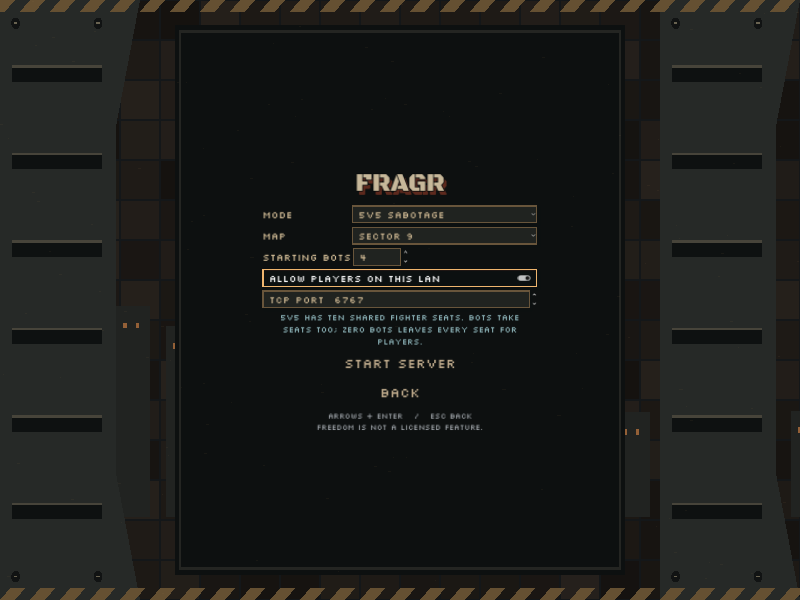
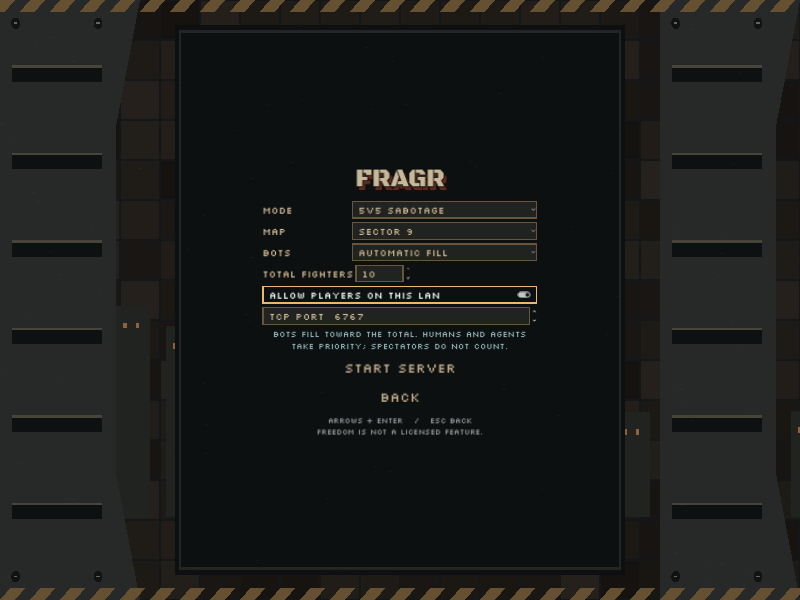
Record inspected bot-choice UI and retained regression evidence

Changed region(s): [[0.3125, 0.27, 0.6875, 0.75]]

diff --git a/docs/evidence/multiplayer-host-20261005.md b/docs/evidence/multiplayer-host-20261005.md
@@ -11,14 +11,15 @@ dedicated hosting remains available. No cloud account or paid runtime is needed.
 
 ## Actual desktop witnesses
 
-All played witnesses used source `dbe28271140caa4be75cd78ba4fe37a31852f9f4`,
+The earlier played witnesses below used source `dbe28271140caa4be75cd78ba4fe37a31852f9f4`,
 native source `ae4ad91870d0f3fb5c60bc4aa11eee2da8c94d62` and native SHA-256
[1 lines of base64/hex data omitted]
 They ran through real owned Host readiness, ordinary networking and presentation
 on Windows using Godot 4.7.2 Compatibility and Radeon 780M. Automation supplied
 ordinary movement, fire and Use. It did not grant equipment or teleport players.
-The later install-check and package-smoke changes preserve ordinary gameplay,
-native and asset bytes.
+The install-check and package-smoke changes at that checkpoint preserved
+ordinary gameplay, native and asset bytes. Later server corrections have
+their own source and verification scope.
 
 | Witness | Observed result | Limit |
 |---|---|---|
@@ -36,15 +37,33 @@ binds original captures, canonical routes, logs and private lifecycle receipts
 by SHA-256. Original failures remain retained: an early private Windows
 closed-port predicate was invalid, and a later TDM run failed the unchanged
 ACK-gap expectation. The quiet passing route did not weaken that expectation.
-The server's instrumented mixed-party campaign fixture also failed during
-parallel coverage; that regression gate remains open until corrected and proven.
+The server's instrumented mixed-party campaign fixture failed two whole
+coverage runs. Precomputing its exact worlds and navigation before live sockets
+preserves every timing and gameplay assertion. The corrected native checkpoint
+`dff0b39b` passes the full 991-test server suite and unfiltered workspace line
+coverage at 93.66 percent. The original failures remain separate from that proof.
+
+A later two-desktop Sabotage attempt exposed a real empty-room defect: the
+opening round advanced before either fighter joined, producing 1:1 after the
+eventual detonation. The same native checkpoint keeps empty or parked-only
+Muster at round one until an attached contestant arrives. Its regression tests
+cover delayed humans, agents, spectators, resume and one rule bot. A new rendered
+two-desktop result still requires the final paired native/client source.
+
+The complete combined client checker at `f38ce343` passed 132 of 133 harnesses
+but correctly failed on a music decoder still alive at exit. The owning fixture
+now requires its five actual playback references to retire after ordinary scene
+exit. Its focused real-native run passes with clean logs; final composed whole
+client and package gates remain required.
 
 ## Literal captures
 
-The Host controls below were inspected at an earlier source checkpoint,
-`4fc50a6a`, with owning harness/documentation changes present. No native match
-was launched for that static UI witness. All nine pages at three window sizes
-fit their controls; the small Sabotage image is an actual 800x600 window.
+The Host controls below come from clean source `e82893e3`. All three bot
+choices in both presets and the Multiplayer page were captured at three actual
+window sizes. All 21 literal frames pass layout checks and independent visual
+review. The real renderer exits 0 with clean logs and retires. No native match
+was launched for this static witness. The small Sabotage image is an actual
+800x600 window; earlier static source bindings remain in the curated receipt.
 
 ![Team Deathmatch Host controls](../screenshots/multiplayer-host-20261005/host-tdm.png)
 
